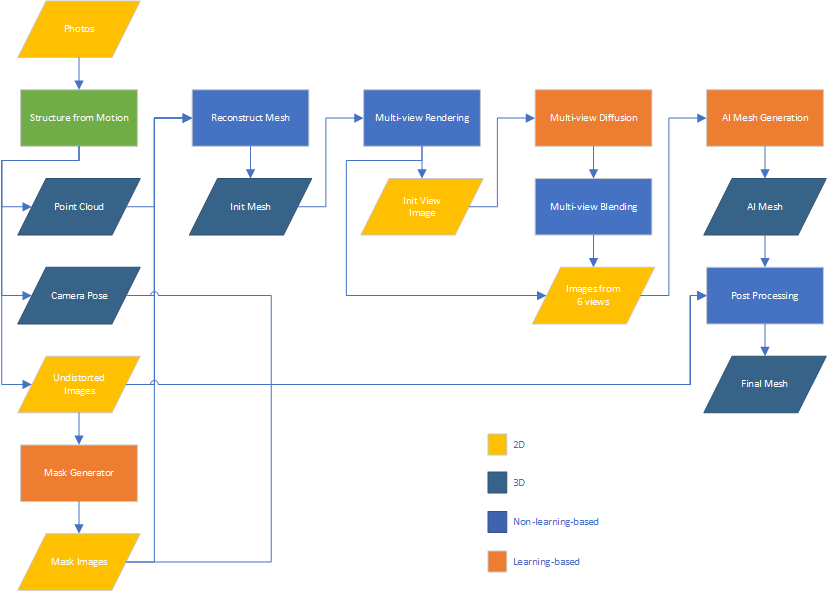
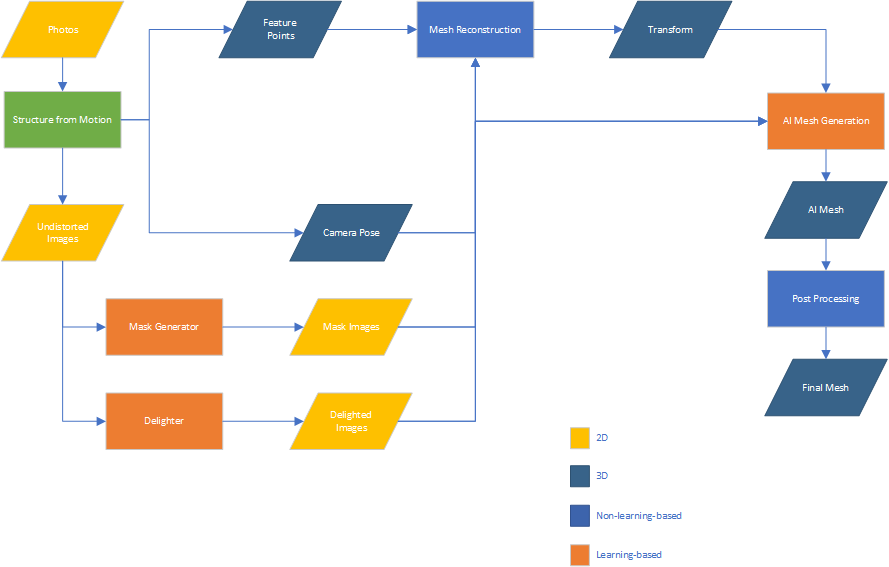
[Doc] Update the data flow chart

diff --git a/Doc/DataFlow.md b/Doc/DataFlow.md
@@ -6,24 +6,18 @@ This is the overall data flow graph.
 
 1. Input Images and Structure from Motion (SfM) Module:
     * The journey begins with input images, which are fed into the **Structure from Motion** module (implemented using [openMVG](https://github.com/openMVG/openMVG)). This module performs several critical tasks:
-      * Generates a point cloud representing the scene.
+      * Generates a feature point cloud representing the scene.
       * Determines camera poses for each image.
       * Produces undistorted versions of the input images.
-    * Additionally, a **Mask Generator** (implemented with [rembg](https://github.com/danielgatis/rembg)) processes the undistorted images, effectively separating foreground objects from the background.
+    * Additionally, a **Mask Generator** (implemented with [rembg](https://github.com/danielgatis/rembg)) processes the undistorted images, effectively separating foreground objects from the background. A **Delighter** (implemented with [Intrinsic](https://github.com/compphoto/Intrinsic) remove the lighting in images.
 
 2. Reconstruct Mesh Module:
-    * All the processed data--point cloud, camera poses, undistorted images, and mask images--is sent to the **Reconstruct Mesh** module (implemented using [openMVS](https://github.com/cdcseacave/openMVS)). Here, an initial 3D mesh is generated.
+    * All the processed data--feature point cloud, camera poses, undistorted images, mask images, and delighted images--is sent to the **Mesh Reconstruction** module (implemented using [openMVS](https://github.com/cdcseacave/openMVS)). Here, a dense point cloud and the transform between it and the SfM space are generated.
 
-3. Multi-view Renderer and Multi-view Diffusion:
-    * The initial mesh serves as input for the **Multi-view Renderer** module. This module:
-      * Creates an image from the initial view.
-      * Generates six additional images from different views.
-    * The image form the initial view is then passed to the **Multi-view Diffusion** module (implemented using [zero123plus](https://github.com/SUDO-AI-3D/zero123plus)). It synthesizes images from 6 views, which are blended with the ones produced by the renderer.
+3. AI Mesh Generator:
+    * All the processed data are further handled by the **AI Mesh Generator** module (implemented using [TRELLIS](https://github.com/Microsoft/TRELLIS)). This AI-powered step refines the 3D mesh, enhancing its completeness.
 
-4. AI Mesh Generator:
-    * The 6 images are further processed by the **AI Mesh Generator** module (implemented using [InstantMesh](https://github.com/TencentARC/InstantMesh)). This AI-powered step refines the 3D mesh, enhancing its completeness.
-
-5. Post Processing:
+4. Post Processing:
     * Finally, in the **Post Processing** module:
       * Project the texture to the 3D mesh.
       * Transform the mesh to a suitable pose.
